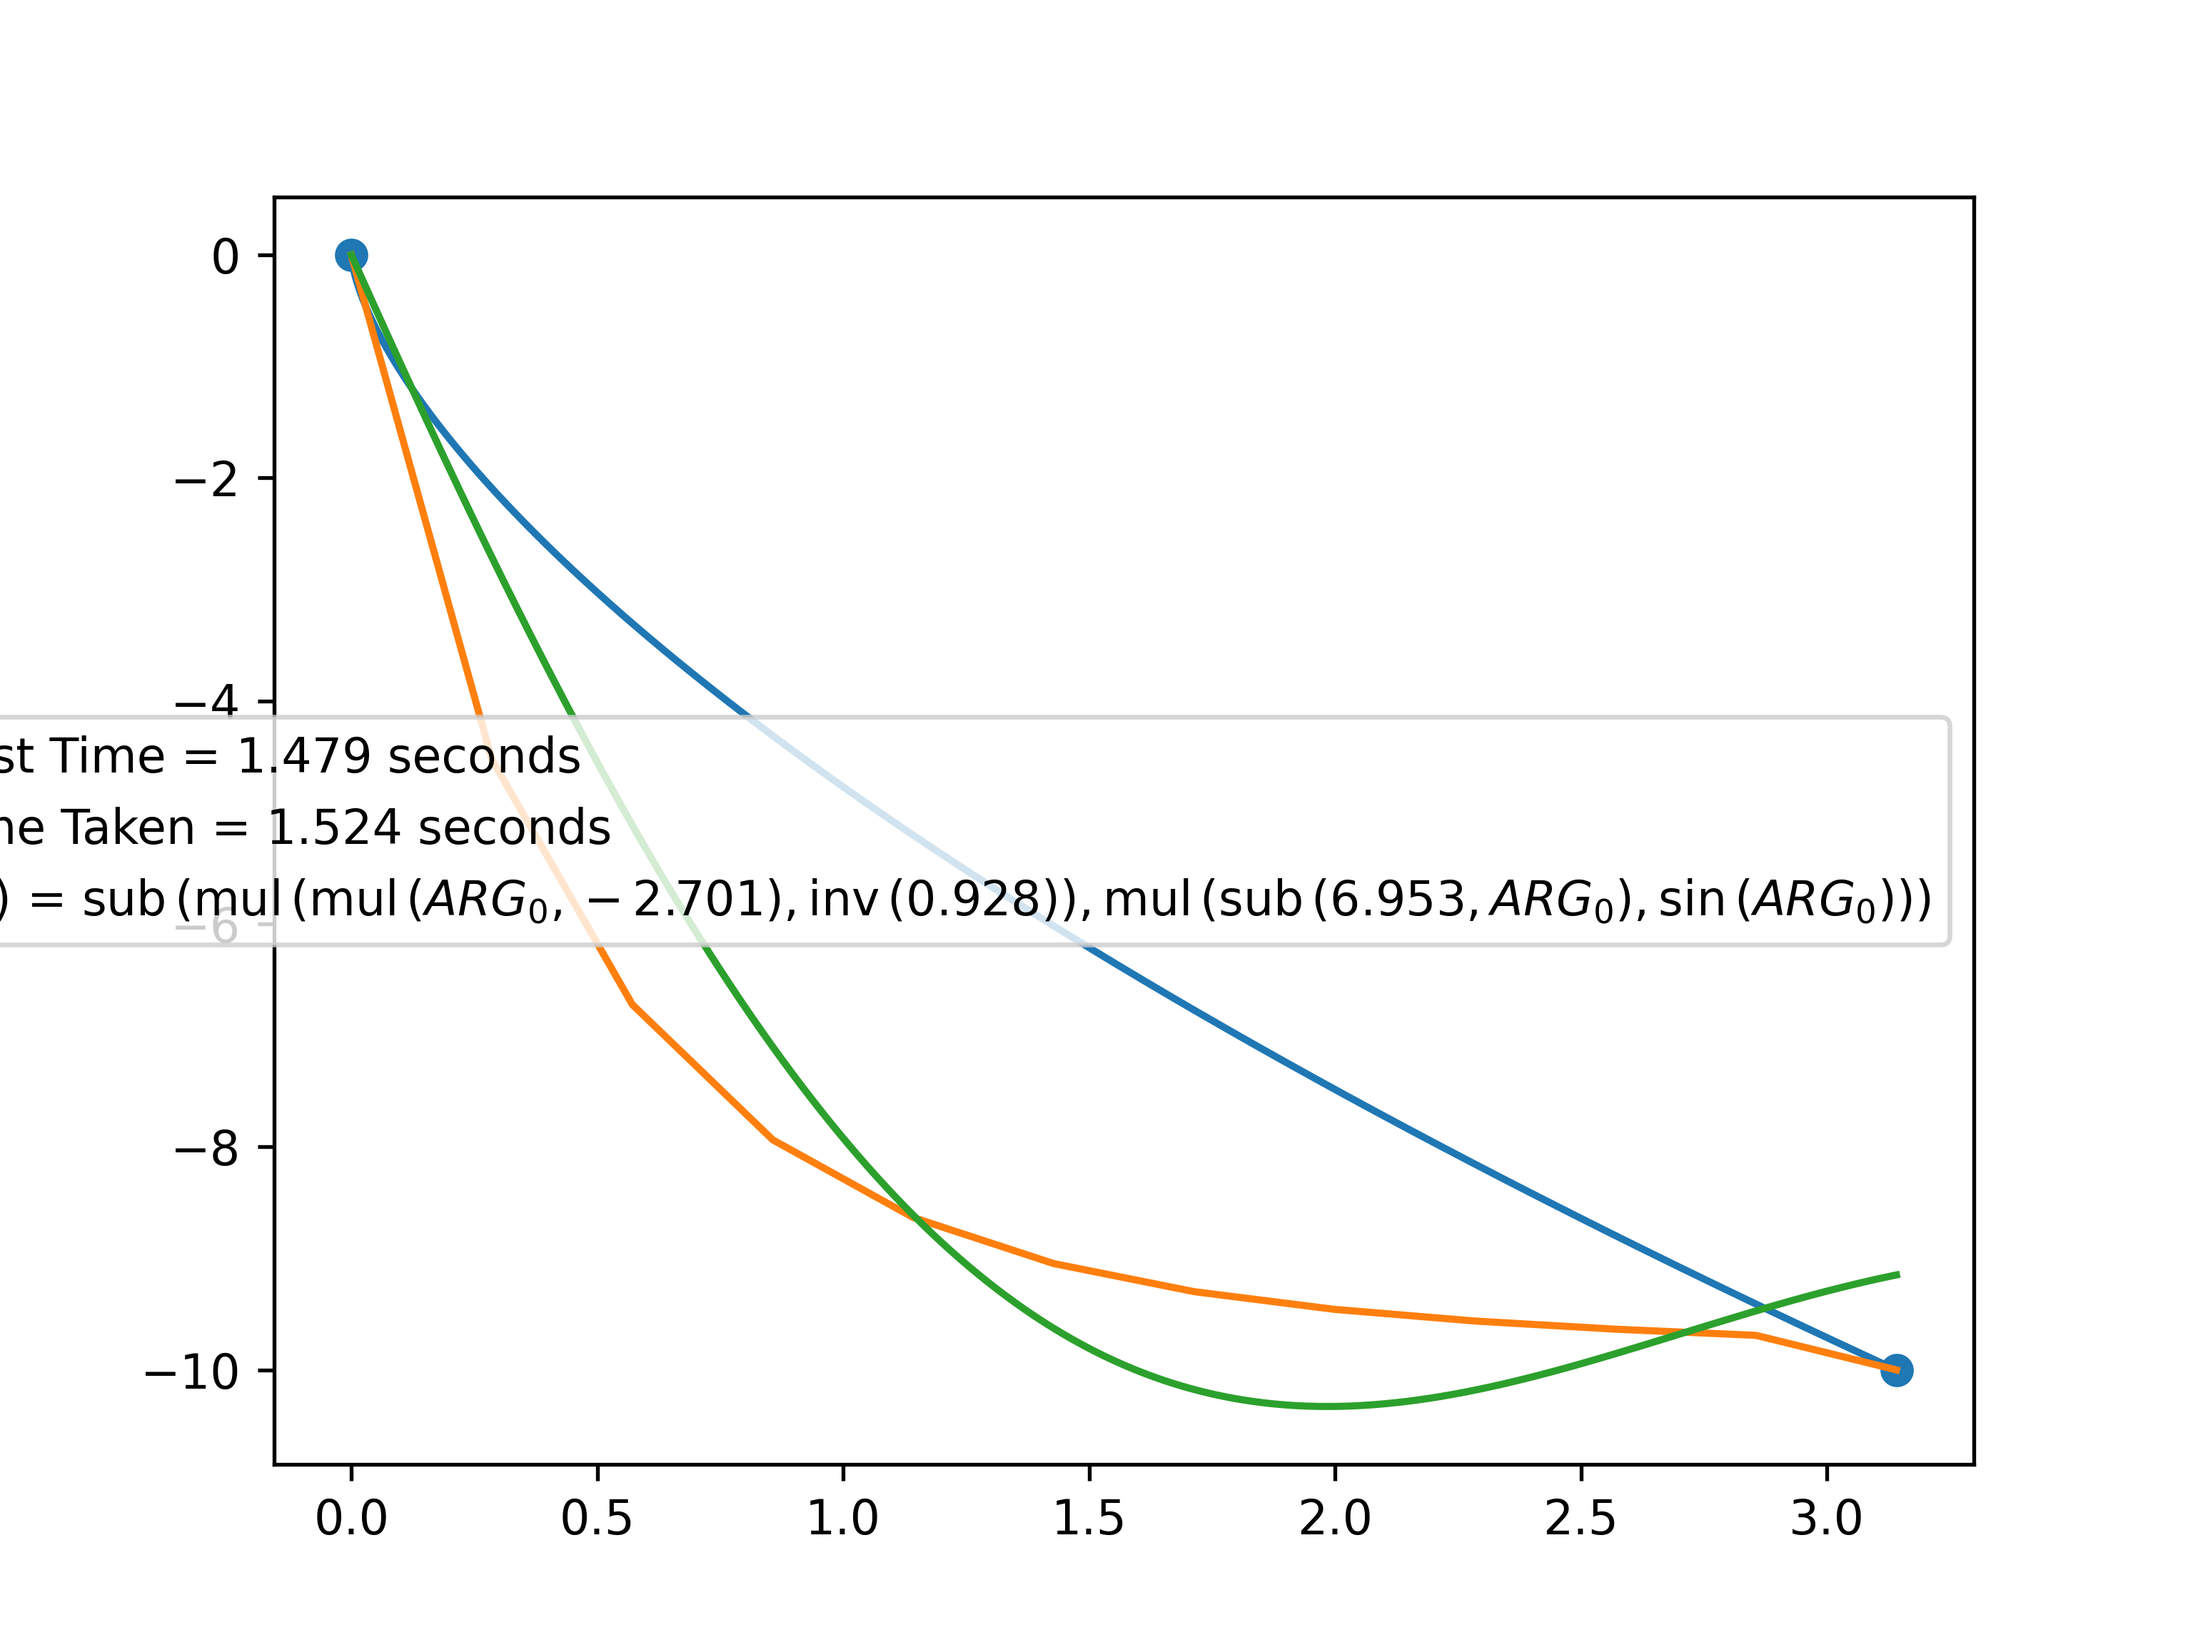
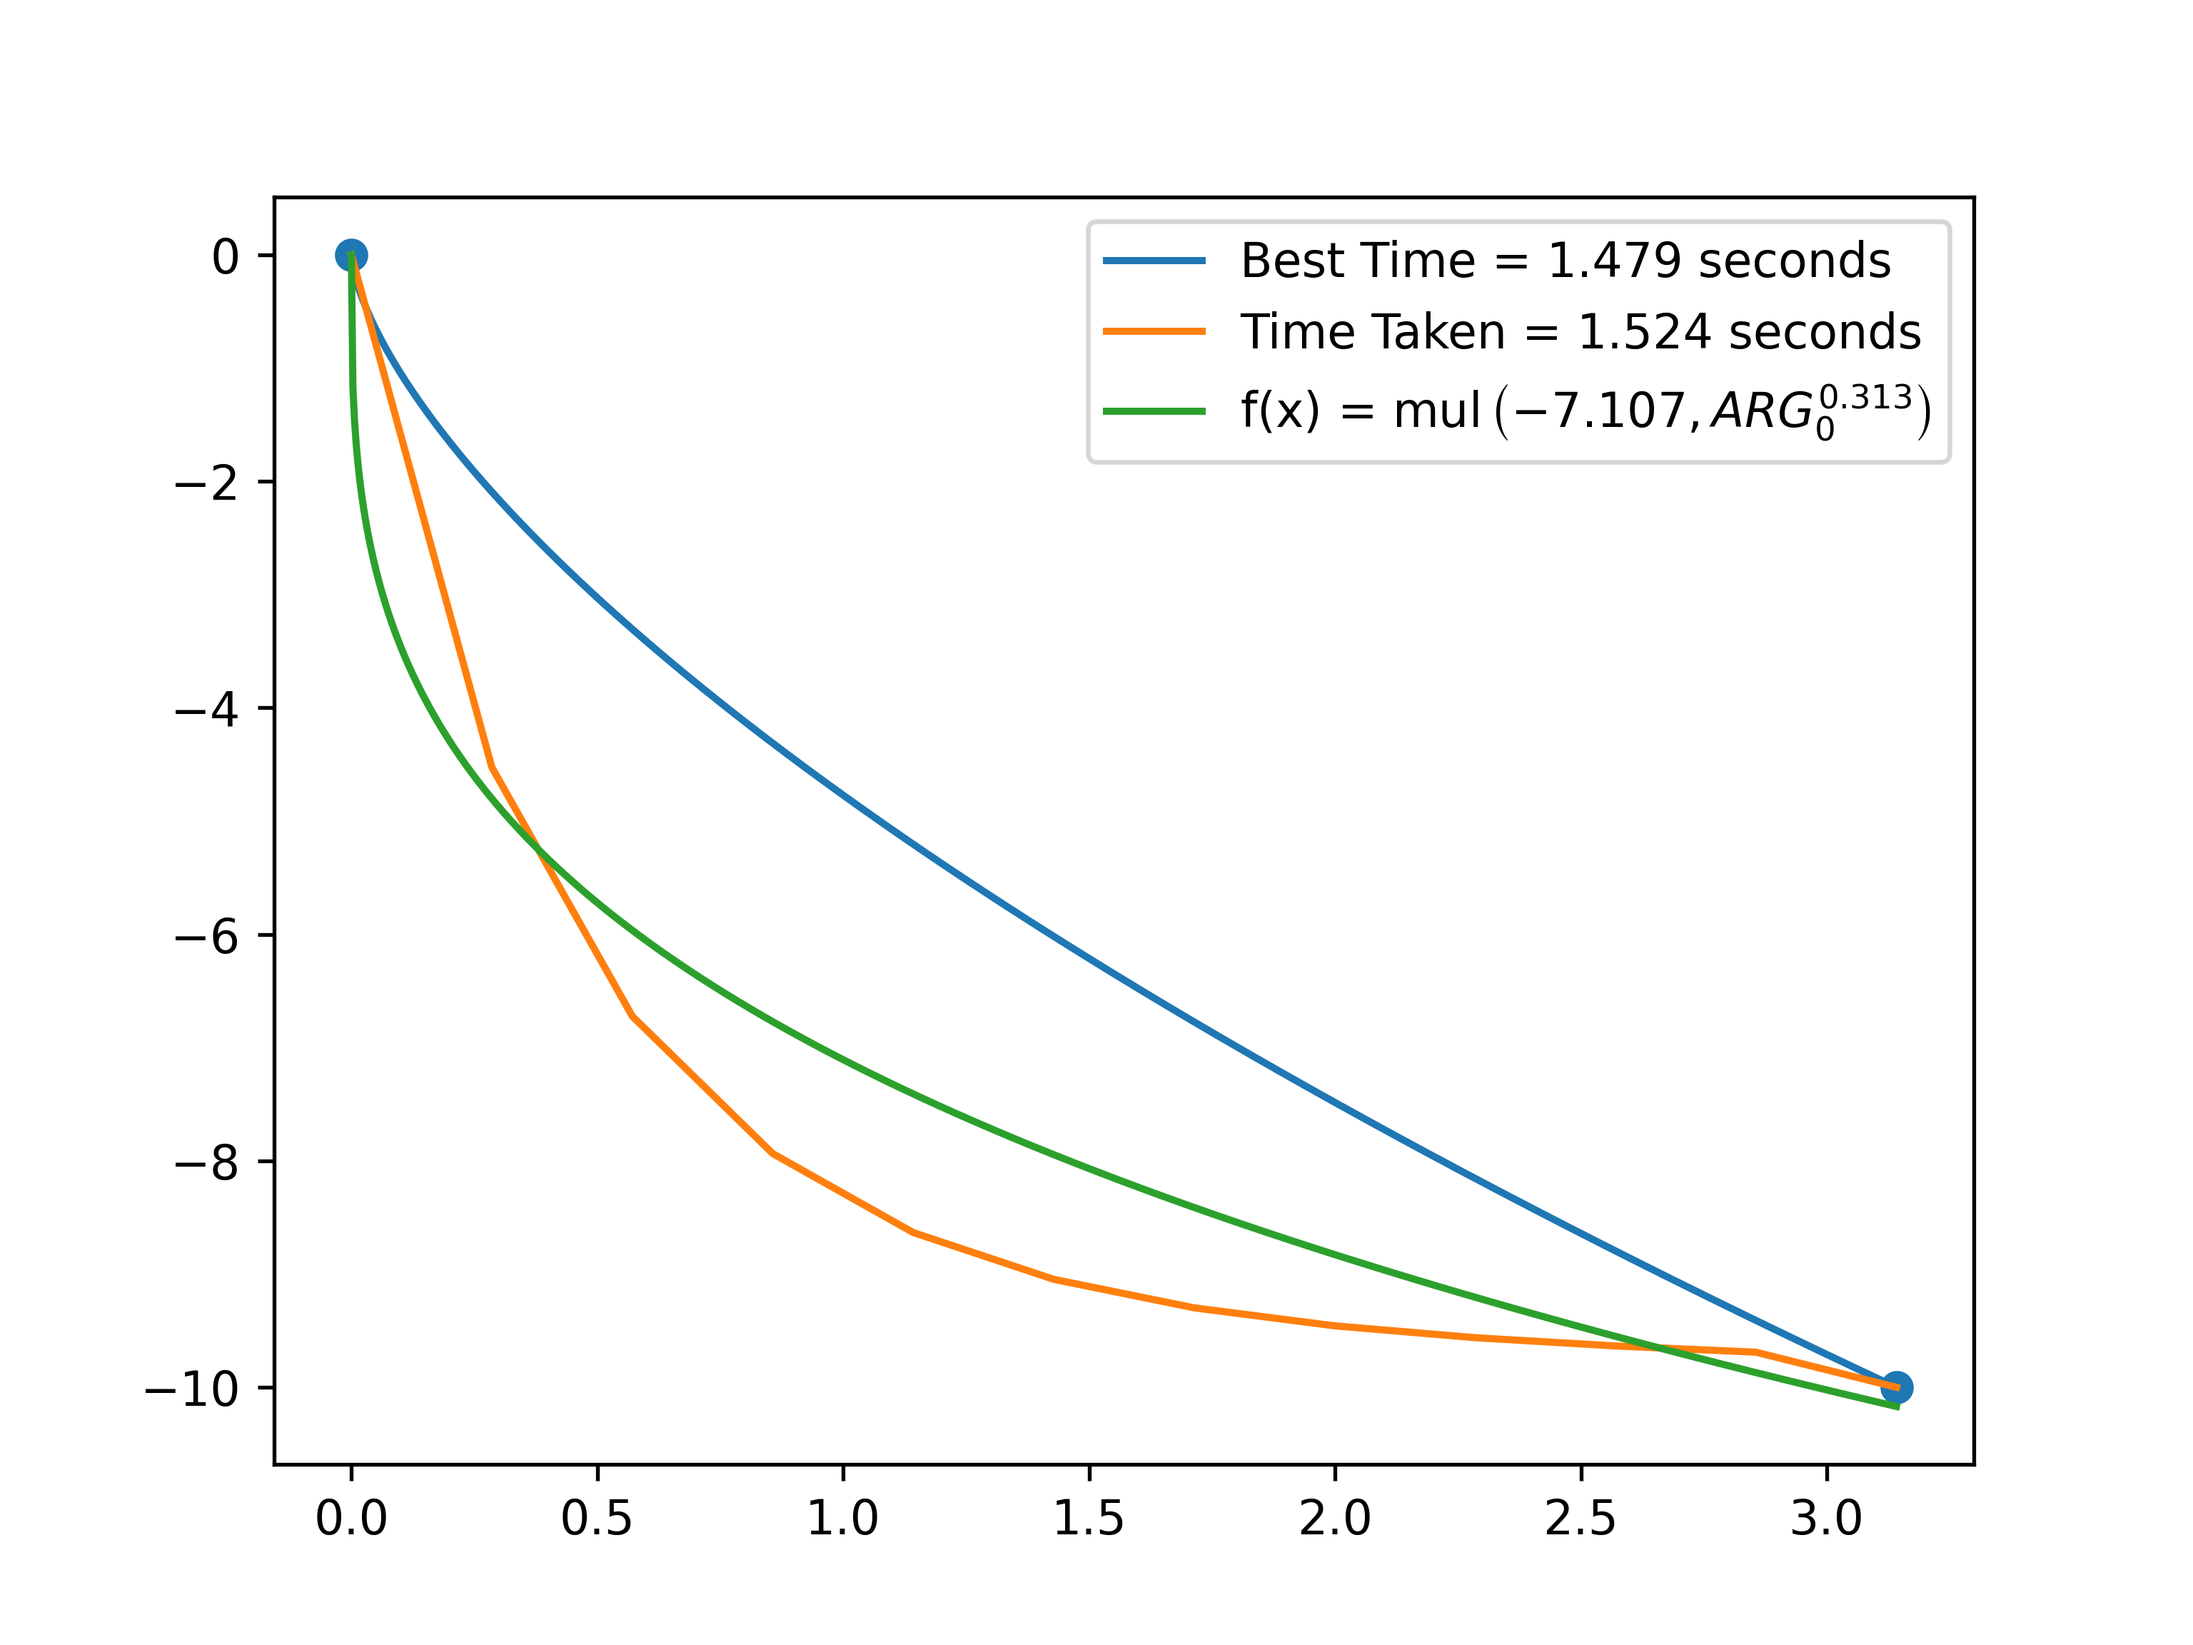
new deap best

diff --git a/RL_Brachistochrone_deap.py b/RL_Brachistochrone_deap.py
@@ -678,6 +678,15 @@ if __name__ == '__main__':
     pset.addPrimitive(operator.add, 2)
     pset.addPrimitive(operator.sub, 2)
     pset.addPrimitive(operator.mul, 2)
+    def pow(base, power):
+        try:
+            result = abs(base)**power
+        except OverflowError:
+            return np.inf
+        else:
+            return result
+            
+    pset.addPrimitive(pow, 2)
     pset.addPrimitive(np.sin, 1)
     pset.addPrimitive(np.cos, 1)
     
@@ -712,8 +721,8 @@ if __name__ == '__main__':
     # Define other DEAP components and settings
     toolbox.register("mate", gp.cxOnePointLeafBiased, termpb=0.1)
     toolbox.register("mutate", gp.mixedMutate, expr=toolbox.expr, pset=pset, prob = [1, 0, 0])
-#    toolbox.register("select", tools.selDoubleTournament, fitness_size=3, parsimony_size=1, fitness_first=True)
-    toolbox.register("select", tools.selStochasticUniversalSampling)
+    toolbox.register("select", tools.selDoubleTournament, fitness_size=3, parsimony_size=1.4, fitness_first=True)
+#    toolbox.register("select", tools.selSPEA2)
     toolbox.register("evaluate", evaluate_individual, X=X, y=y)
     
     def feasible(individual):
@@ -756,6 +765,8 @@ if __name__ == '__main__':
             except:
                 if isinstance(y_pred, float):
                     y_pred = np.full_like(X, fill_value = y_pred)
+                elif isinstance(y_pred, complex):
+                    y_pred = np.full_like(X, fill_value = 1)
                 else:
                     print(func(X), type(func(X)), X.shape)
                     print("Exiting...")
@@ -803,6 +814,6 @@ if __name__ == '__main__':
                  label=rf"f(x) = ${new_expr}$")
         plt.legend()
         # Save the figure and show your friends! :)
-        if best_loss < 11.412352072449064:
+        if best_loss < 8.337045599793958:
             print("New best")
             plt.savefig("RL_Brachistochrone_deap.png", dpi=5 * 96)
